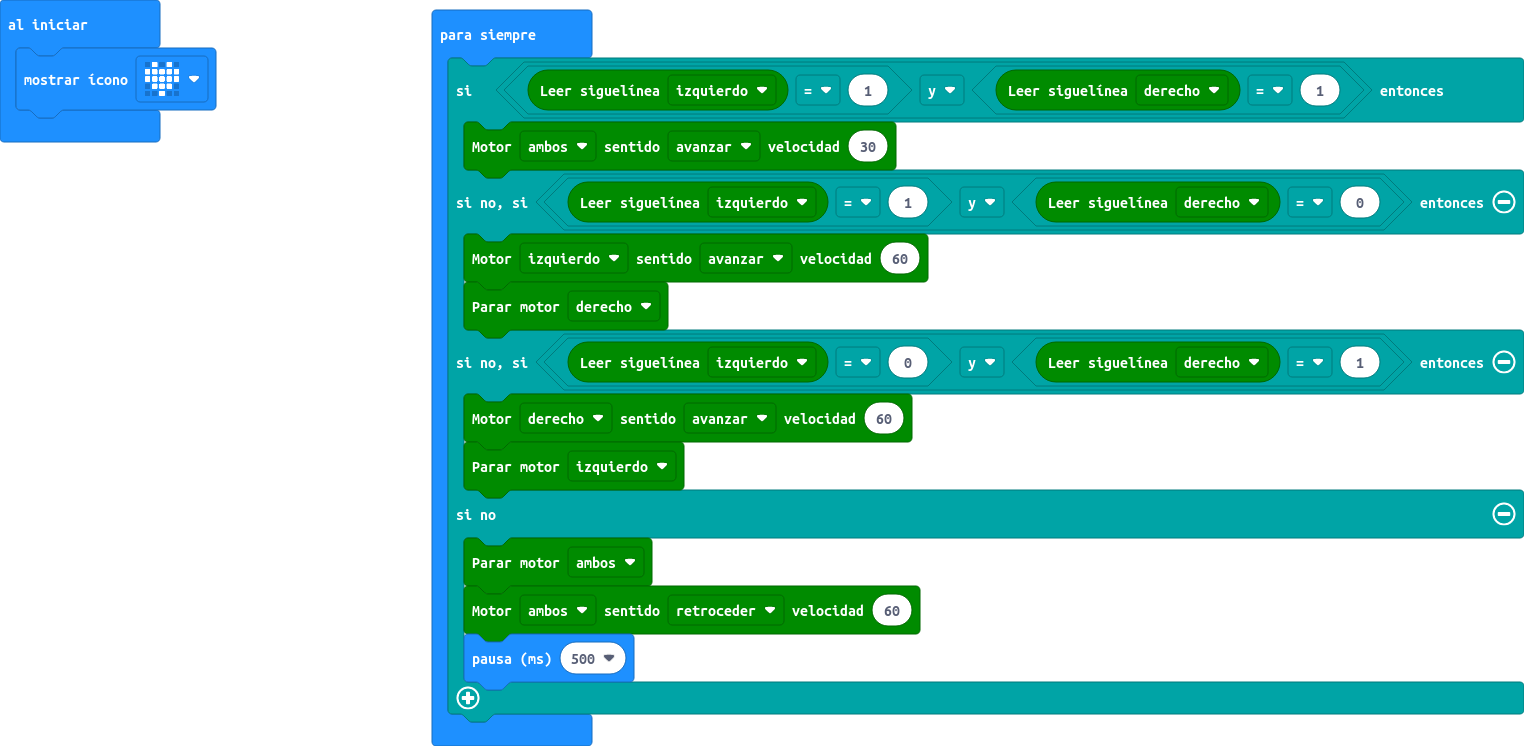
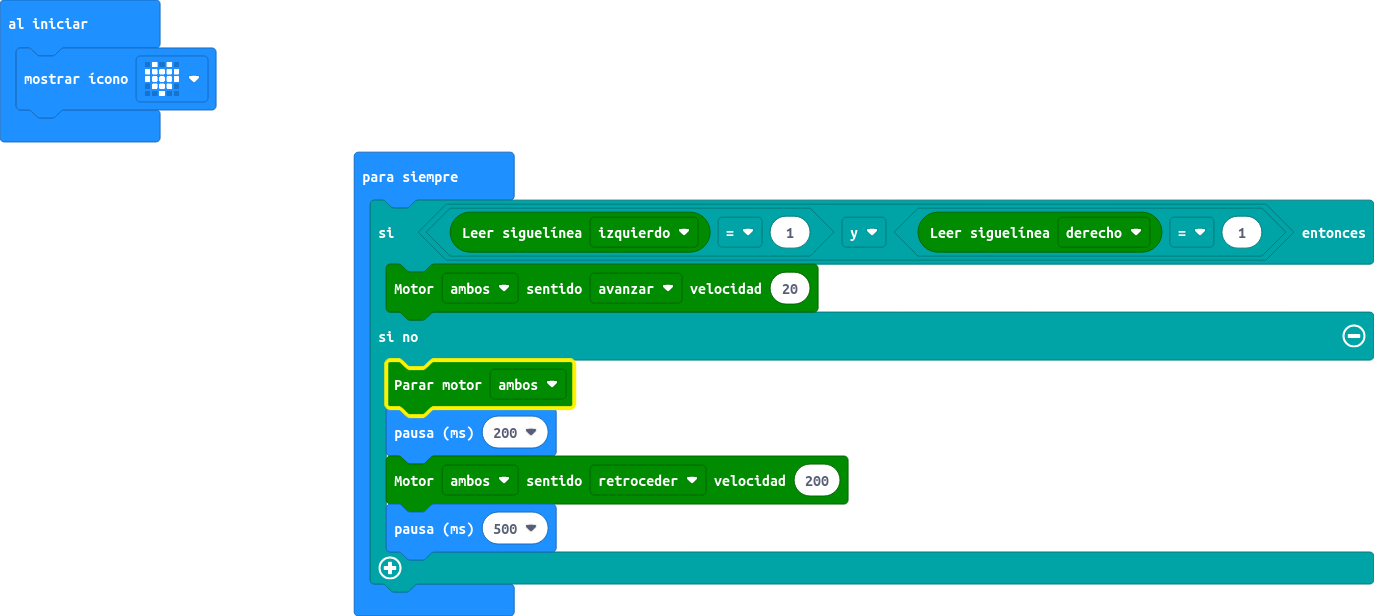
Depurado

diff --git a/main.ts b/main.ts
@@ -1,16 +1,11 @@
 basic.showIcon(IconNames.Heart)
 basic.forever(function () {
     if (maqueen.readPatrol(maqueen.Patrol.PatrolLeft) == 1 && maqueen.readPatrol(maqueen.Patrol.PatrolRight) == 1) {
-        maqueen.motorRun(maqueen.Motors.All, maqueen.Dir.CW, 30)
-    } else if (maqueen.readPatrol(maqueen.Patrol.PatrolLeft) == 1 && maqueen.readPatrol(maqueen.Patrol.PatrolRight) == 0) {
-        maqueen.motorRun(maqueen.Motors.M1, maqueen.Dir.CW, 60)
-        maqueen.motorStop(maqueen.Motors.M2)
-    } else if (maqueen.readPatrol(maqueen.Patrol.PatrolLeft) == 0 && maqueen.readPatrol(maqueen.Patrol.PatrolRight) == 1) {
-        maqueen.motorRun(maqueen.Motors.M2, maqueen.Dir.CW, 60)
-        maqueen.motorStop(maqueen.Motors.M1)
+        maqueen.motorRun(maqueen.Motors.All, maqueen.Dir.CW, 20)
     } else {
         maqueen.motorStop(maqueen.Motors.All)
-        maqueen.motorRun(maqueen.Motors.All, maqueen.Dir.CCW, 60)
+        basic.pause(200)
+        maqueen.motorRun(maqueen.Motors.All, maqueen.Dir.CCW, 200)
         basic.pause(500)
     }
 })
